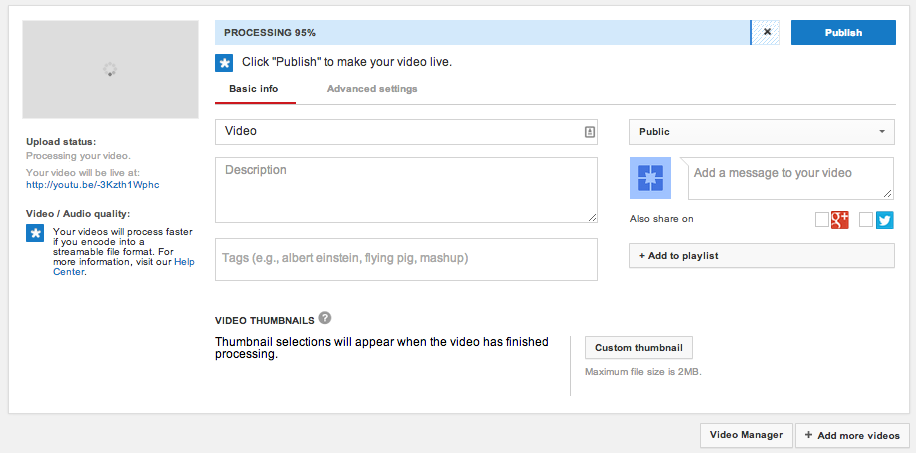
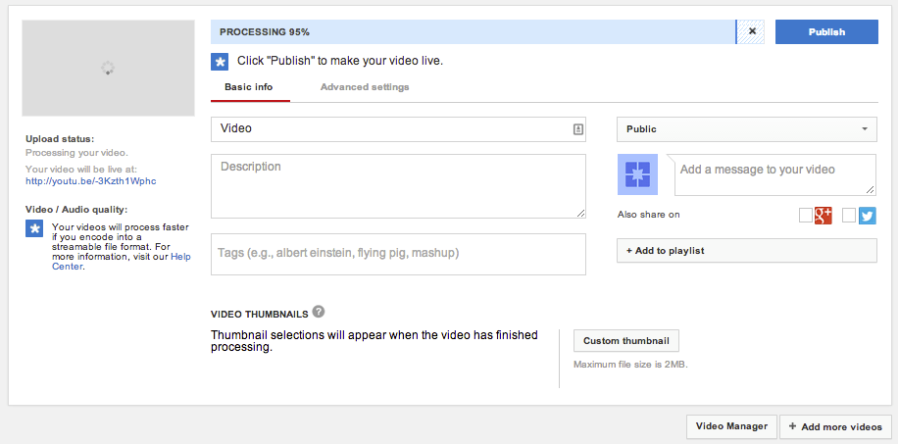
attempting to fix image upload

diff --git a/content/youtube-3d-vr-camp.md b/content/youtube-3d-vr-camp.md
@@ -18,9 +18,9 @@ An ever-present process taught and implemented in a range of classes at Tech Em.
 
 ![ideas](images/youtube_design.jpg)  
 
-Students were tasked with creating three ideas they had for what videos to share with the world and at least four details on those ideas.  
+Students were tasked with creating three ideas for videos they would share with the world and at least four details on those ideas.  
 
-Group and individual teams formed, followed by channel creations and film making. Some students used the green screen and cameras on tripods, while others used game capture software and animation apps. In all cases, campers learned videography techniques like, proper lighting, sound, and video editing; using iMovie and Windows Live Movie Maker.  
+Group and individual teams formed, followed by channel creations and film making. Some students used the green screen and cameras on tripods, while others used game capture software ([Open Broadcaster Software](https://obsproject.com/)) and animation apps. In all cases, campers learned videography techniques --proper lighting, sound, and video editing; using iMovie and Windows Live Movie Maker.  
 
 ![green](images/youtube_greenscreen.jpg)
 
@@ -47,7 +47,7 @@ After ensuring that your video is ready to be seen, you'll have to go to your ma
 
 After going to the upload page, you' be prompted to select the content you want to upload, once selected you have to wait through an uploading process and processing process for your video to actually make its way onto YouTube.  
 
-![Loading Screen](images/upload.jpg)  
+![Loading Screen](images/Upload.jpg)  
 
 Next, you'll need to decide on a Title, Description, some Tags for your video, as well as the Video Thumbnail. Make sure your Tags are related to your video and that you include enough so that if a viewer searches a relevant term, they can find your video. You'll also want to keep your title short and relevant, while making your description more descript with the information that's excluded from the title.  
 
